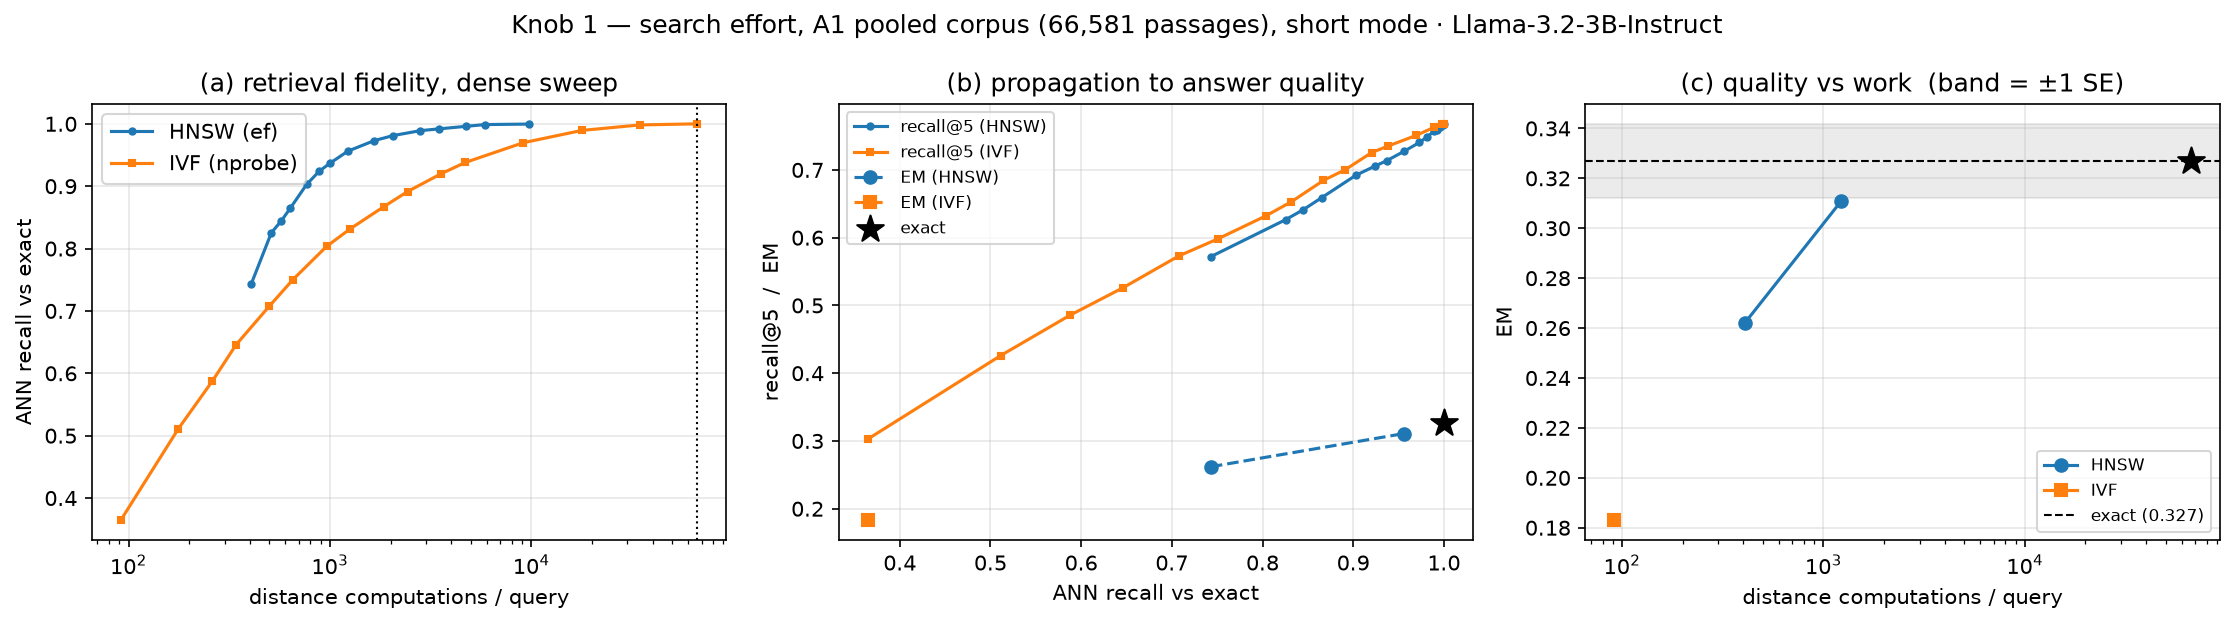
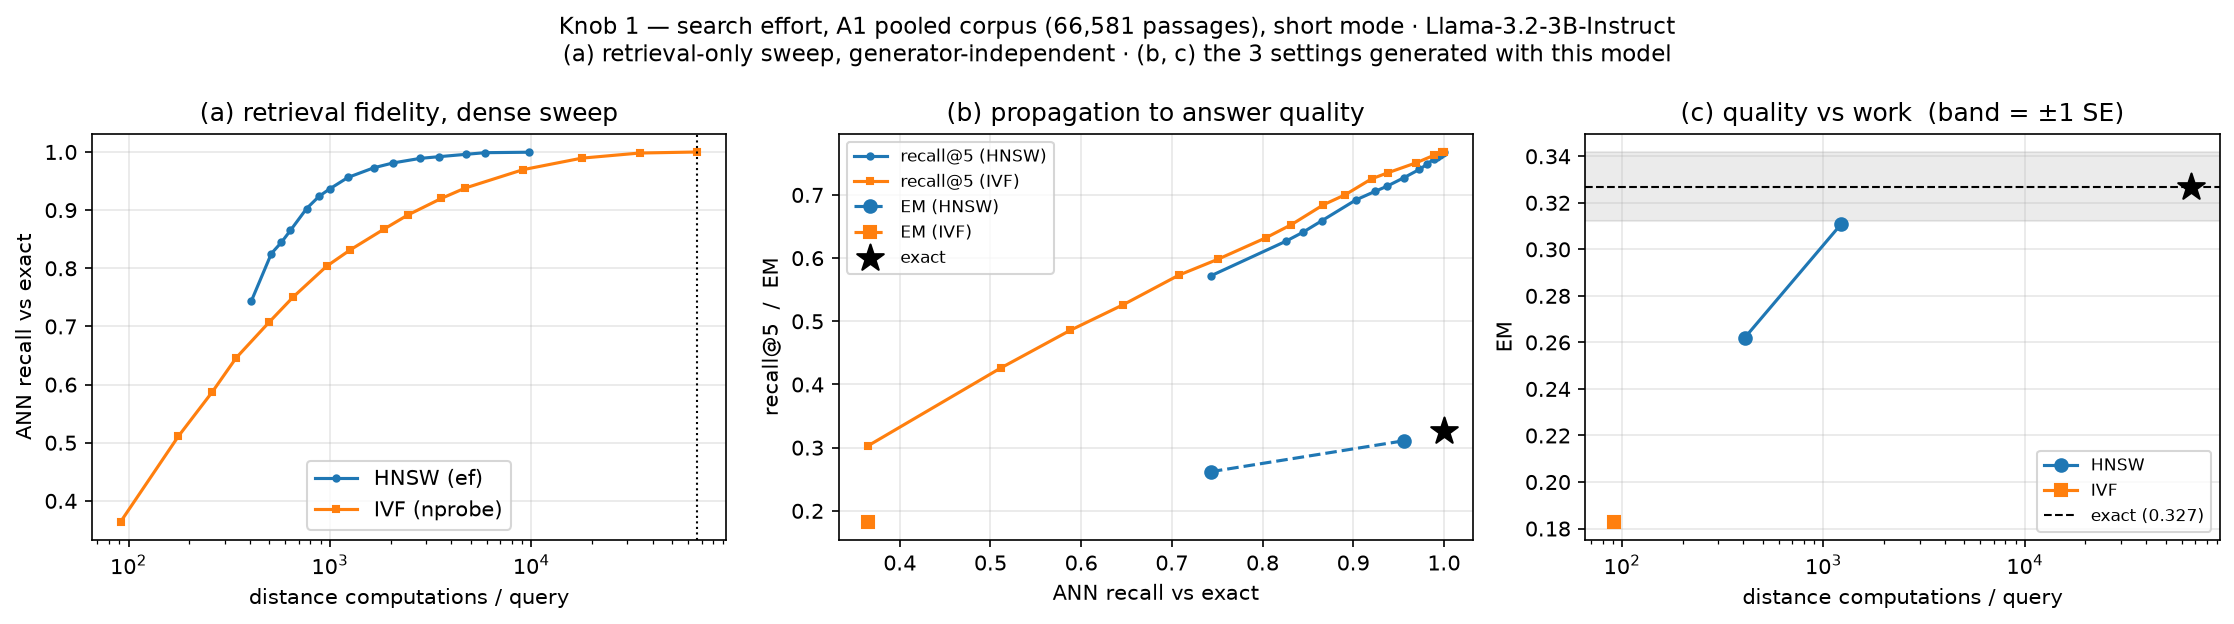
Slightly updated plots for knobs 1 and 2 for llama

diff --git a/scripts/plot_cross_model.py b/scripts/plot_cross_model.py
@@ -152,7 +152,12 @@ def boundary_mib(tab: pd.DataFrame):
     t = tab.sort_values("compression").reset_index(drop=True)
     for i, r in t.iterrows():
         if r["verdict"] == SIGNIFICANT and r["c"] > r["b"]:
-            return float(t.loc[i - 1, "corpus_mib"]) if i > 0 else None
+            # Midpoint in log space between the last passing setting and the
+            # first loss: the boundary lies between them, not on either point.
+            if i == 0:
+                return None
+            lo, hi = float(t.loc[i, "corpus_mib"]), float(t.loc[i - 1, "corpus_mib"])
+            return float(np.sqrt(lo * hi))
     return None
 
 
@@ -265,8 +270,10 @@ def fig_knob1_curves(m: dict, out_path: Path) -> None:
     ax[2].set_title("(c) quality vs work  (band = ±1 SE)")
     ax[2].legend(fontsize=8); ax[2].grid(alpha=.3)
 
+    n_gpu = len(hn) + len(iv)
     fig.suptitle("Knob 1 — search effort, A1 pooled corpus (66,581 passages), short mode"
-                 f" · {DISPLAY[m['tag']]}")
+                 f" · {DISPLAY[m['tag']]}\n(a) retrieval-only sweep, generator-independent"
+                 f" · (b, c) the {n_gpu} settings generated with this model", fontsize=11)
     fig.tight_layout()
     fig.savefig(out_path, dpi=150, bbox_inches="tight")
     plt.close(fig)
@@ -316,8 +323,10 @@ def fig_knob2_curves(m: dict, out_path: Path) -> None:
     ax[2].set_title("(c) quality vs memory  (red: significance boundary)")
     ax[2].legend(fontsize=8); ax[2].grid(alpha=.3)
 
+    n_gpu = len(pq_) + len(sq_)
     fig.suptitle("Knob 2 — embedding precision, A1 corpus (66,581 passages), short mode"
-                 f" · {DISPLAY[m['tag']]}")
+                 f" · {DISPLAY[m['tag']]}\n(a, b) retrieval-only sweep, generator-independent"
+                 f" · (c) the {n_gpu} settings generated with this model", fontsize=11)
     fig.tight_layout()
     fig.savefig(out_path, dpi=150, bbox_inches="tight")
     plt.close(fig)
@@ -546,8 +555,10 @@ def self_test() -> int:
     # The knob-2 boundary rule must reproduce notebook 08's line at m48 (3.0 MiB).
     n_checks += 1
     bm = boundary_mib(q["tables"][2])
-    if bm is None or abs(bm - 3.05) > 0.05:
-        fails.append(f"knob-2 boundary at {bm} MiB; notebook 08 drew it at 3.0 (m48)")
+    want = float(np.sqrt(2.0 * 3.0))     # midpoint between m32 (2.0) and m48 (3.0)
+    if bm is None or abs(bm - want) > 0.02:
+        fails.append(f"knob-2 boundary at {bm} MiB; expected {want:.3f}, between "
+                     f"m48 (3.0, last non-loss) and m32 (2.0, first loss)")
 
     for f in fails:
         print(f"FAIL  {f}")
